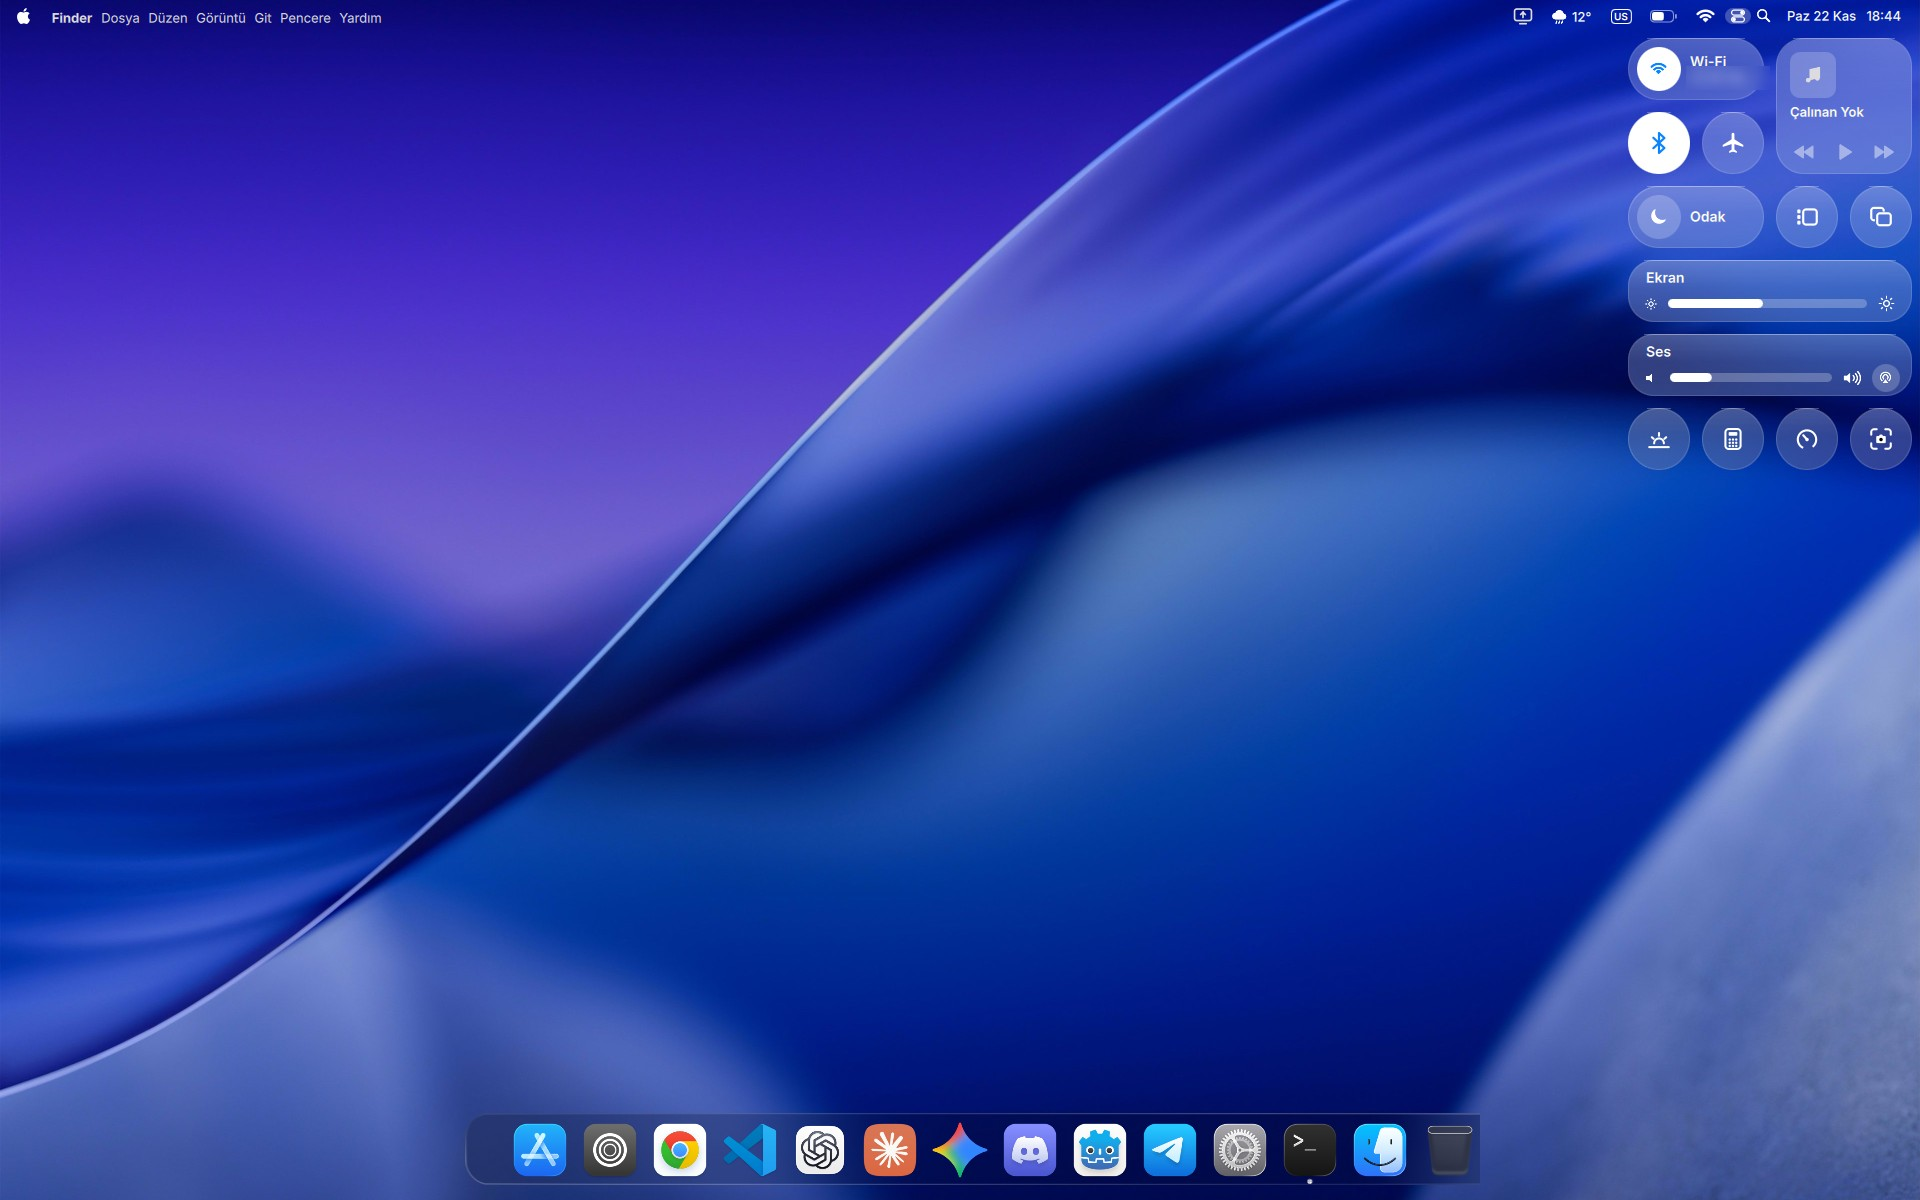
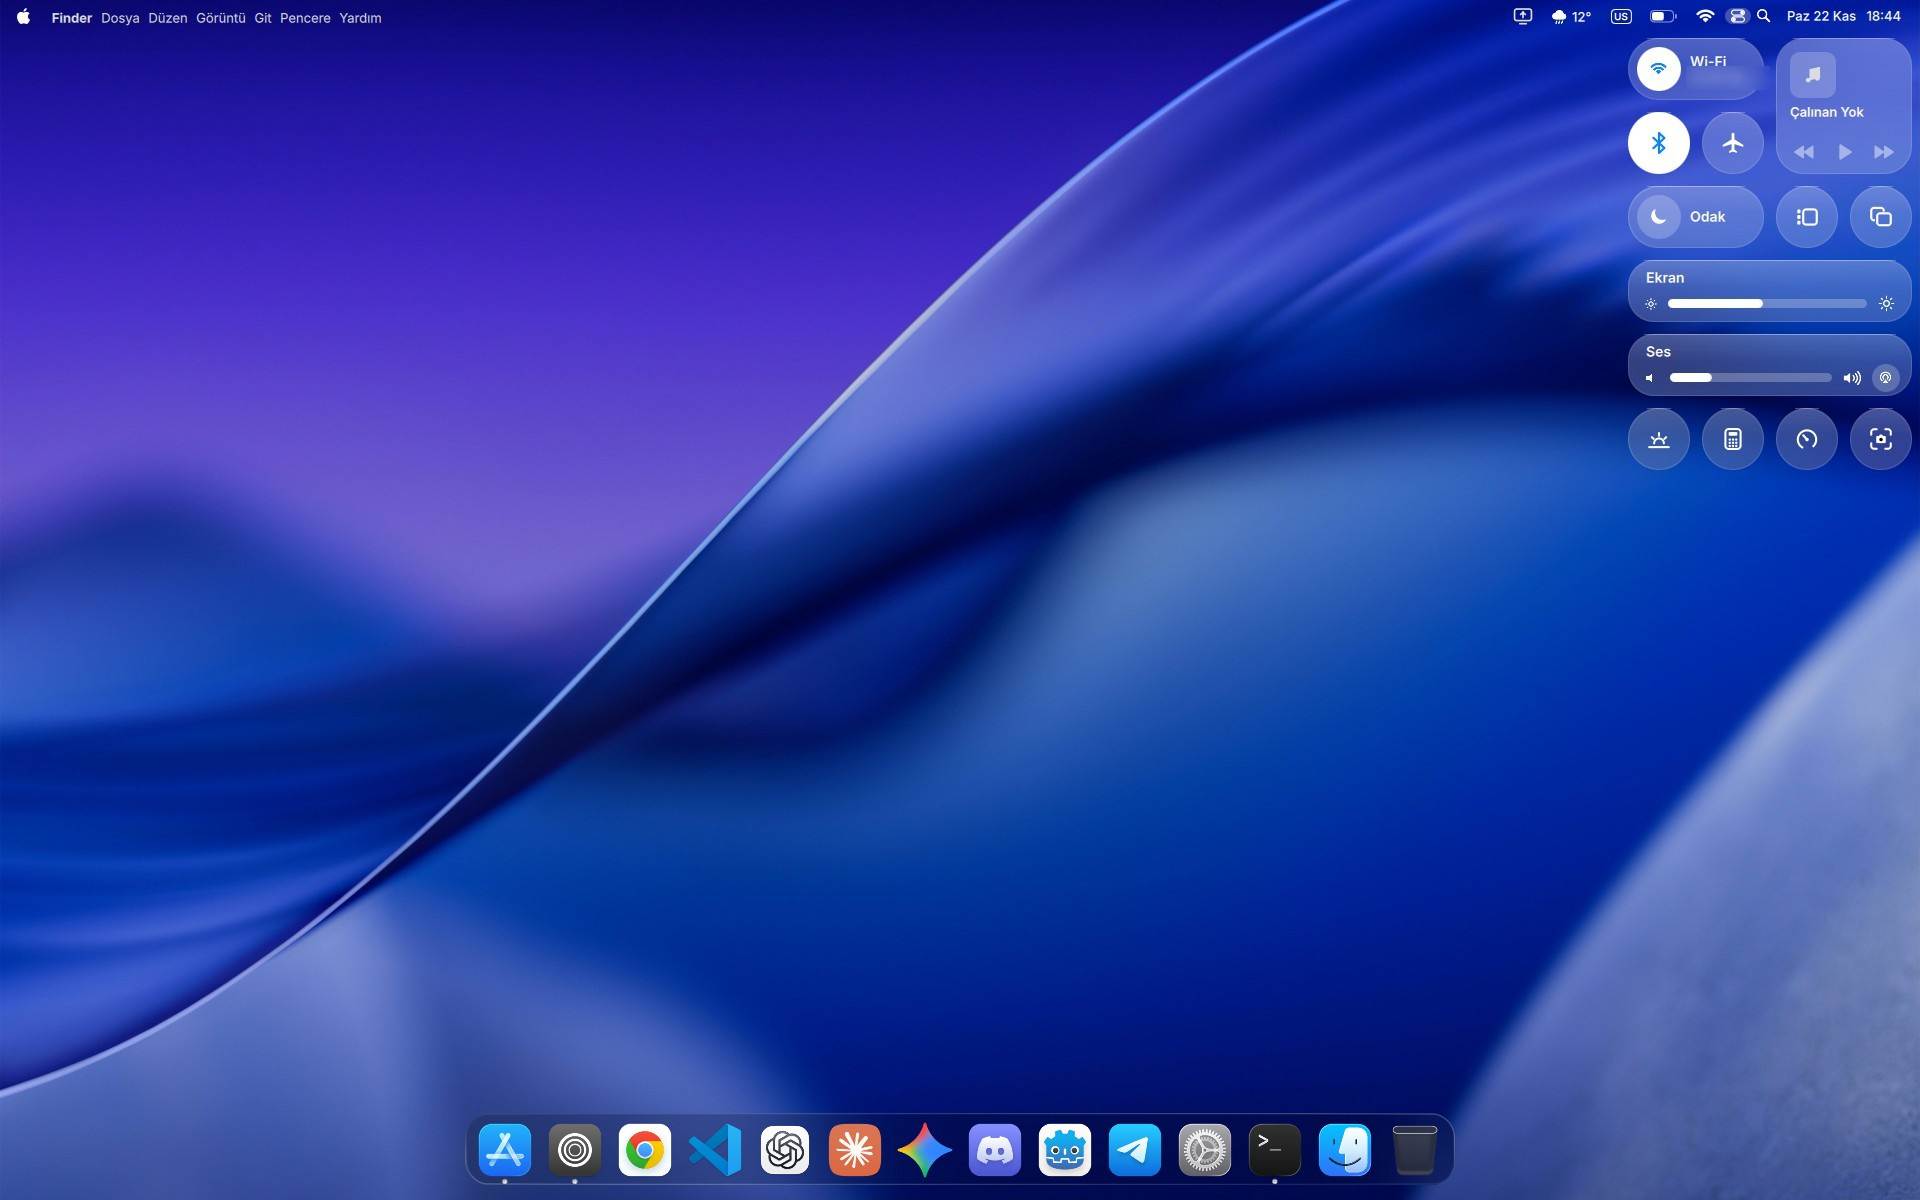
Keep Tahoe OSD above app windows; fix dock cut-off in screenshots
On Wayland KWin ignores Qt's WindowStaysOnTopHint, and the OSD never takes
focus, so it opened behind the active window and was only visible on an
empty desktop. spotlight-center now sets keepAbove for the Tahoe helper
windows (OSD, Control Center, menus, Spotlight), and the OSD window rule
also forces 'above'.

Screenshots: the dock was cropped at x=1480, which squared off its right
rounded edge; replaced with a full dock capture.

Changed region(s): [[0.25, 0.925, 0.7812, 0.9867]]

diff --git a/components/kwin/scripts/spotlight-center/contents/code/main.js b/components/kwin/scripts/spotlight-center/contents/code/main.js
@@ -30,9 +30,15 @@ function attach(w) {
     if (cls !== "local.spotlight" && cls !== "local.tahoecc" && cls !== "local.tahoemenus" && cls !== "local.tahoeosd") return;
     // keep these helper windows out of the dock, Alt+Tab and pager
     w.skipTaskbar = true; w.skipSwitcher = true; w.skipPager = true;
+    // Wayland ignores Qt WindowStaysOnTopHint: without this the OSD (never focused)
+    // opened BEHIND app windows and was only visible on the empty desktop
+    w.keepAbove = true;
+    // the client may reset the state right after mapping -> re-assert it
+    w.keepAboveChanged.connect(function () { if (!w.keepAbove) w.keepAbove = true; });
     let moving = false;
     function place() {
         if (moving) return;
+        if (!w.keepAbove) w.keepAbove = true;
         const area = w.output.geometry;
         const g = w.frameGeometry;
         let x, y;
